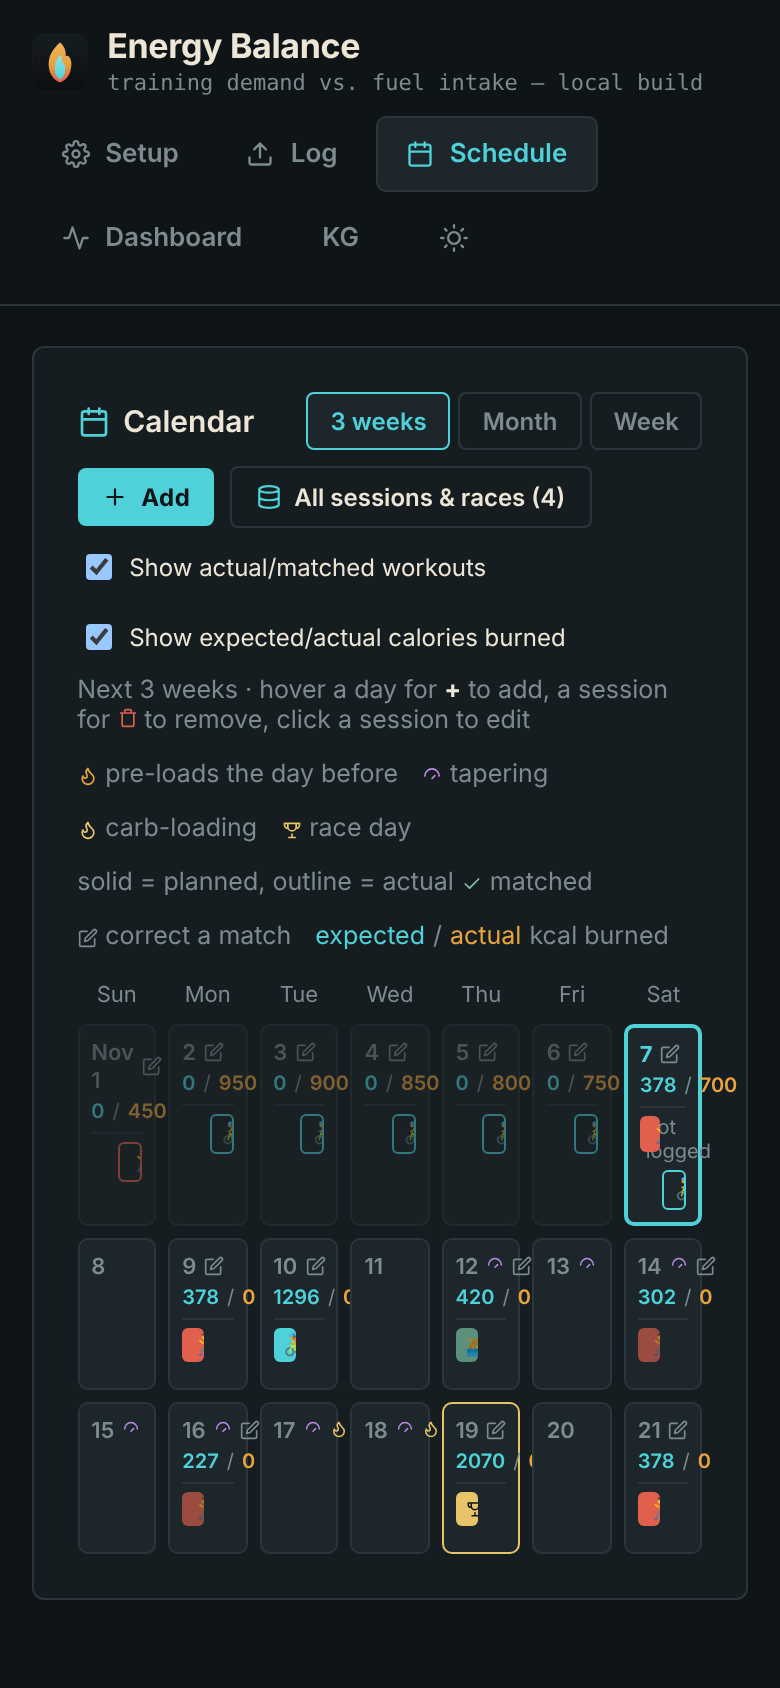
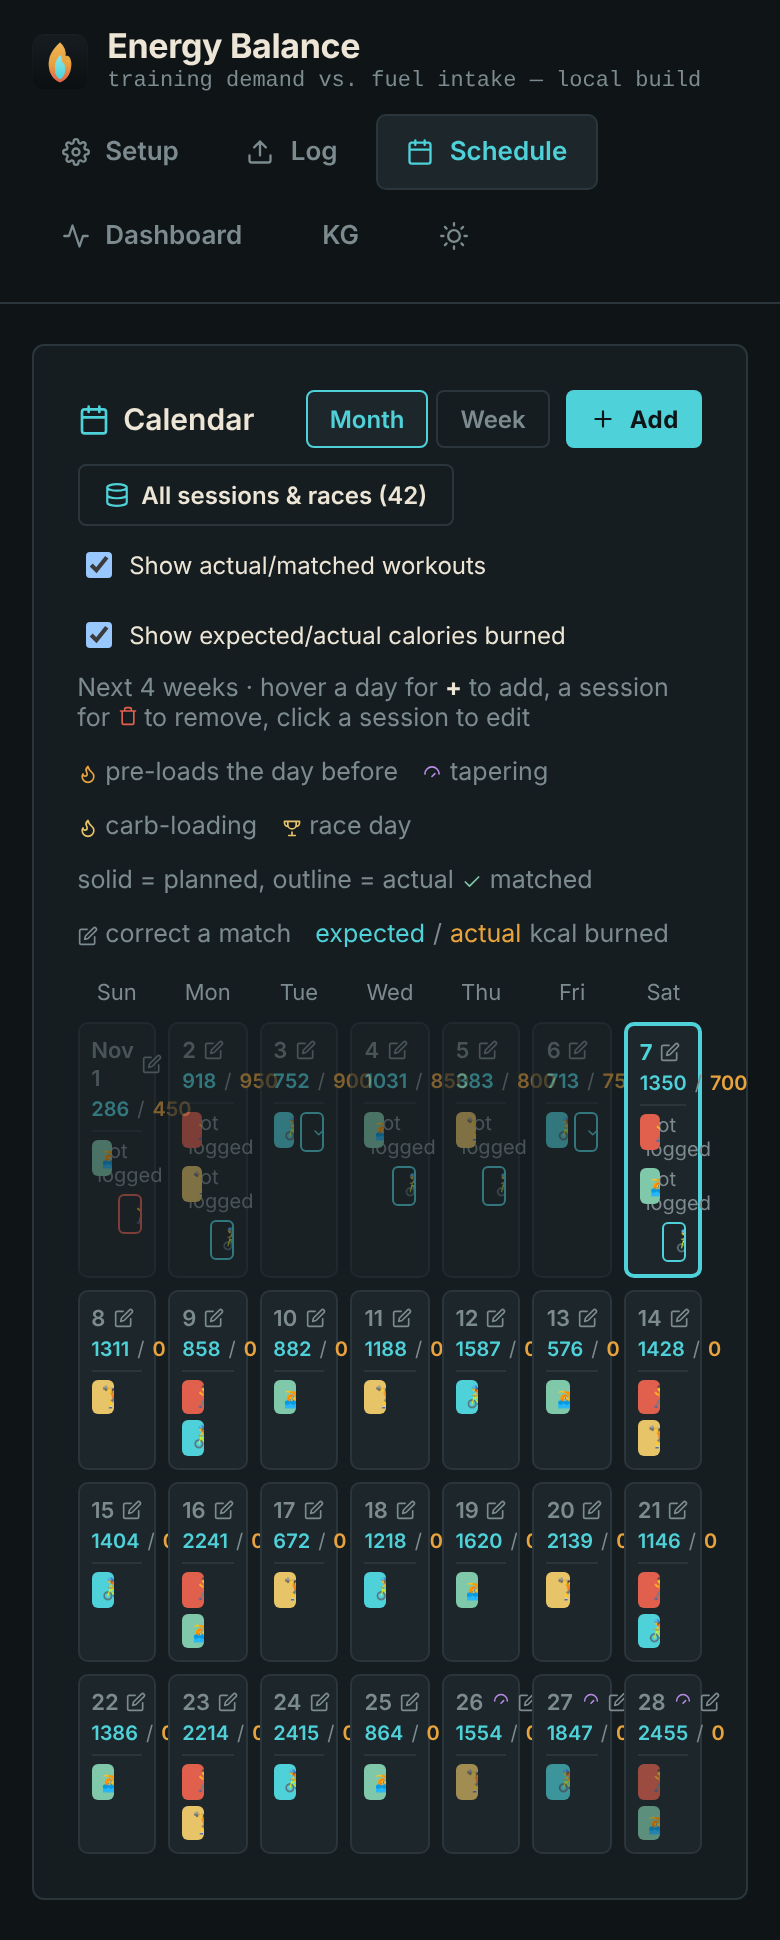
Schedule: drop the 3-week view; week view matches the month layout
- Calendar views are now Month (default, 4 weeks) and Week. A saved
  "3week" preference falls back to Month.
- Week view: sessions stack vertically with the matched actual beside each,
  like the month grid; all seven day rows are as tall as the week's
  busiest day; the list scrolls with the page instead of in its own box
  (switching to Week or pressing Today scrolls today's row into view).
- Screenshots refreshed.

Claude-Session: https://claude.ai/code/session_016ADyii2jwnd8wXYzD1F69B

diff --git a/src/js/app.js b/src/js/app.js
@@ -1588,11 +1588,9 @@
         @media (hover: none) { .cal-add, .chip-del { opacity: 1; } }
         @media (max-width: 700px) { .chip-del { display: none; } }
         .modal-body table.data thead th { position: sticky; top: 0; background: ${panel}; z-index: 1; }
-        .cal-week .cal-pair { flex: 0 1 420px; min-width: 0; }
-        .cal-week .cal-chips > .cal-chip-wrap { flex: 0 1 220px; }
         .cal-week .cal-chip-text { display: inline !important; }
         .cal-week .cal-chip-emoji { display: none !important; }
-        @media (max-width: 700px) { .cal-week .chip-del { display: flex; } .cal-week .cal-pair { flex-basis: 100%; } }
+        @media (max-width: 700px) { .cal-week .chip-del { display: flex; } }
         .subtab { padding: 7px 14px; border-radius: 4px; font-size: 12.5px; font-weight: 600; cursor: pointer; border: 1px solid ${line}; background: transparent; color: ${dim}; }
         .subtab.active { background: ${panel2}; color: ${cyan}; border-color: ${cyan}; }
         .fieldlabel { font-size: 11px; text-transform: uppercase; letter-spacing: 0.07em; color: ${dim}; margin-bottom: 6px; display:block; font-weight:600; }
@@ -2913,9 +2911,9 @@
     const [editingMatchDay, setEditingMatchDay] = useState(null);
     const [calView, setCalViewState] = useState(() => {
       try {
-        return localStorage.getItem("schedule-view") || "3week";
+        return localStorage.getItem("schedule-view") === "week" ? "week" : "month";
       } catch {
-        return "3week";
+        return "month";
       }
     });
     const setCalView = (v) => {
@@ -2927,6 +2925,7 @@
     };
     const [weekOffset, setWeekOffset] = useState(0);
     const weekListRef = useRef(null);
+    const [scrollTodayTick, setScrollTodayTick] = useState(0);
     const showActual = profile.scheduleShowActual !== false;
     const showCalories = profile.scheduleShowCalories !== false;
     const activityLibrary = useMemo(
@@ -2960,7 +2959,7 @@
       onUpdate(id, { ...rest, skipDates: Array.from(/* @__PURE__ */ new Set([...entry.skipDates || [], dateKey])).sort() });
     }
     const calendarStart = daysAgo((/* @__PURE__ */ new Date()).getDay() - (calView === "week" ? weekOffset * 7 : 0));
-    const calendarLength = calView === "week" ? 7 : calView === "month" ? 28 : 21;
+    const calendarLength = calView === "week" ? 7 : 28;
     const calendarDays = [];
     for (let i = 0; i < calendarLength; i++) {
       const d = new Date(calendarStart);
@@ -2992,17 +2991,13 @@
     const todayKey = toLocalISODate(/* @__PURE__ */ new Date());
     const isWeekView = calView === "week";
     const weekRelLabel = weekOffset === 0 ? "This week" : weekOffset === 1 ? "Next week" : weekOffset === -1 ? "Last week" : weekOffset > 0 ? `In ${weekOffset} weeks` : `${-weekOffset} weeks ago`;
-    const rangeLabel = isWeekView ? weekRelLabel : calView === "month" ? "Next 4 weeks" : "Next 3 weeks";
+    const rangeLabel = isWeekView ? weekRelLabel : "Next 4 weeks";
     useEffect(() => {
-      if (!isWeekView || weekOffset !== 0) return;
-      const list = weekListRef.current;
-      const el = list && list.querySelector('[data-today="true"]');
-      if (!el) return;
-      const top = el.offsetTop - list.offsetTop;
-      const overflow = top + el.offsetHeight - list.clientHeight;
-      if (overflow > 0) list.scrollTop = Math.min(top - 4, overflow + 4);
-    }, [isWeekView, weekOffset]);
-    return /* @__PURE__ */ React.createElement("div", { style: { display: "grid", gap: 20, gridTemplateColumns: "repeat(auto-fit, minmax(min(420px, 100%), 1fr))", alignItems: "start", gridAutoFlow: "dense" } }, /* @__PURE__ */ React.createElement("div", { className: "card", style: { padding: 22, gridColumn: "1 / -1" } }, /* @__PURE__ */ React.createElement("div", { style: { display: "flex", alignItems: "center", gap: 8, marginBottom: 10, flexWrap: "wrap" } }, /* @__PURE__ */ React.createElement("div", { style: { fontFamily: grotesk, fontWeight: 600, fontSize: 15, display: "flex", alignItems: "center", gap: 7, marginRight: "auto" } }, /* @__PURE__ */ React.createElement(Icon, { path: ICONS.calendar, size: 16, color: cyan }), " Calendar"), /* @__PURE__ */ React.createElement("div", { role: "tablist", "aria-label": "Calendar view", style: { display: "flex", gap: 4 } }, [["3week", "3 weeks"], ["month", "Month"], ["week", "Week"]].map(([id, label]) => /* @__PURE__ */ React.createElement(
+      if (!scrollTodayTick || !isWeekView) return;
+      const el = weekListRef.current && weekListRef.current.querySelector('[data-today="true"]');
+      if (el) el.scrollIntoView({ block: "nearest", behavior: "smooth" });
+    }, [scrollTodayTick]);
+    return /* @__PURE__ */ React.createElement("div", { style: { display: "grid", gap: 20, gridTemplateColumns: "repeat(auto-fit, minmax(min(420px, 100%), 1fr))", alignItems: "start", gridAutoFlow: "dense" } }, /* @__PURE__ */ React.createElement("div", { className: "card", style: { padding: 22, gridColumn: "1 / -1" } }, /* @__PURE__ */ React.createElement("div", { style: { display: "flex", alignItems: "center", gap: 8, marginBottom: 10, flexWrap: "wrap" } }, /* @__PURE__ */ React.createElement("div", { style: { fontFamily: grotesk, fontWeight: 600, fontSize: 15, display: "flex", alignItems: "center", gap: 7, marginRight: "auto" } }, /* @__PURE__ */ React.createElement(Icon, { path: ICONS.calendar, size: 16, color: cyan }), " Calendar"), /* @__PURE__ */ React.createElement("div", { role: "tablist", "aria-label": "Calendar view", style: { display: "flex", gap: 4 } }, [["month", "Month"], ["week", "Week"]].map(([id, label]) => /* @__PURE__ */ React.createElement(
       "button",
       {
         key: id,
@@ -3011,7 +3006,10 @@
         className: `subtab ${calView === id ? "active" : ""}`,
         onClick: () => {
           setCalView(id);
-          if (id === "week") setWeekOffset(0);
+          if (id === "week") {
+            setWeekOffset(0);
+            setScrollTodayTick((n) => n + 1);
+          }
         },
         style: { padding: "6px 11px", fontSize: 12 }
       },
@@ -3061,12 +3059,15 @@
         style: { padding: "6px 10px", display: "flex" }
       },
       /* @__PURE__ */ React.createElement(Icon, { path: ICONS.chevronRight, size: 16, color: paper })
-    ), weekOffset !== 0 && /* @__PURE__ */ React.createElement("button", { className: "btn-ghost", onClick: () => setWeekOffset(0), style: { padding: "6px 10px", fontSize: 12 } }, "Today")), /* @__PURE__ */ React.createElement(
+    ), weekOffset !== 0 && /* @__PURE__ */ React.createElement("button", { className: "btn-ghost", onClick: () => {
+      setWeekOffset(0);
+      setScrollTodayTick((n) => n + 1);
+    }, style: { padding: "6px 10px", fontSize: 12 } }, "Today")), /* @__PURE__ */ React.createElement(
       "div",
       {
         ref: weekListRef,
         className: isWeekView ? "cal-week" : void 0,
-        style: isWeekView ? { display: "flex", flexDirection: "column", gap: 6, maxHeight: "min(70vh, 900px)", overflowY: "auto", paddingRight: 4 } : { display: "grid", gridTemplateColumns: "repeat(7, minmax(0, 1fr))", gap: 6 }
+        style: isWeekView ? { display: "grid", gridTemplateColumns: "minmax(0, 1fr)", gridAutoRows: "1fr", gap: 6 } : { display: "grid", gridTemplateColumns: "repeat(7, minmax(0, 1fr))", gap: 6 }
       },
       !isWeekView && WEEKDAY_LABELS.map((label) => /* @__PURE__ */ React.createElement("div", { key: label, style: { fontSize: 11, color: dim, textAlign: "center", paddingBottom: 2 } }, label)),
       calendarDays.map((day) => {
@@ -3250,7 +3251,7 @@
             /* @__PURE__ */ React.createElement("span", { style: { color: dim } }, "/"),
             /* @__PURE__ */ React.createElement("span", { style: { color: amber, fontWeight: 600 } }, Math.round(day.actualKcal))
           ),
-          /* @__PURE__ */ React.createElement("div", { className: "cal-chips", style: { display: "flex", flexDirection: isWeekView ? "row" : "column", flexWrap: isWeekView ? "wrap" : "nowrap", gap: isWeekView ? 6 : 3 } }, isWeekView && day.pairs.length === 0 && day.extras.length === 0 && /* @__PURE__ */ React.createElement("div", { style: { fontSize: 11.5, color: dim } }, day.taper ? "Rest \xB7 tapering" : "Rest day"), showActual ? /* @__PURE__ */ React.createElement(React.Fragment, null, day.pairs.map(({ planned, actual, manual }, i) => {
+          /* @__PURE__ */ React.createElement("div", { className: "cal-chips", style: { display: "flex", flexDirection: "column", gap: isWeekView ? 4 : 3, maxWidth: isWeekView ? 640 : void 0 } }, isWeekView && day.pairs.length === 0 && day.extras.length === 0 && /* @__PURE__ */ React.createElement("div", { style: { fontSize: 11.5, color: dim } }, day.taper ? "Rest \xB7 tapering" : "Rest day"), showActual ? /* @__PURE__ */ React.createElement(React.Fragment, null, day.pairs.map(({ planned, actual, manual }, i) => {
             const isGroup = Array.isArray(actual);
             return /* @__PURE__ */ React.createElement("div", { key: `pair${i}`, className: "cal-pair", style: { display: "grid", gridTemplateColumns: "1fr 1fr", gap: 3 } }, plannedChip(planned, i, isGroup), isGroup ? actualChipGroup(actual, i, manual) : actual ? actualChip(actual, true, i, manual) : day.key <= todayKey ? /* @__PURE__ */ React.createElement("div", { style: { fontSize: 10, color: dim, display: "flex", alignItems: "center" } }, "not logged") : null);
           }), day.extras.map((actual, i) => /* @__PURE__ */ React.createElement("div", { key: `extra${i}`, className: "cal-pair", style: { display: "grid", gridTemplateColumns: "1fr 1fr", gap: 3 } }, /* @__PURE__ */ React.createElement("div", null), actualChip(actual, false, i)))) : day.pairs.map(({ planned }, i) => plannedChip(planned, i)))

diff --git a/src/js/app-source.jsx b/src/js/app-source.jsx
@@ -2141,11 +2141,9 @@ function App() {
         @media (hover: none) { .cal-add, .chip-del { opacity: 1; } }
         @media (max-width: 700px) { .chip-del { display: none; } }
         .modal-body table.data thead th { position: sticky; top: 0; background: ${panel}; z-index: 1; }
-        .cal-week .cal-pair { flex: 0 1 420px; min-width: 0; }
-        .cal-week .cal-chips > .cal-chip-wrap { flex: 0 1 220px; }
         .cal-week .cal-chip-text { display: inline !important; }
         .cal-week .cal-chip-emoji { display: none !important; }
-        @media (max-width: 700px) { .cal-week .chip-del { display: flex; } .cal-week .cal-pair { flex-basis: 100%; } }
+        @media (max-width: 700px) { .cal-week .chip-del { display: flex; } }
         .subtab { padding: 7px 14px; border-radius: 4px; font-size: 12.5px; font-weight: 600; cursor: pointer; border: 1px solid ${line}; background: transparent; color: ${dim}; }
         .subtab.active { background: ${panel2}; color: ${cyan}; border-color: ${cyan}; }
         .fieldlabel { font-size: 11px; text-transform: uppercase; letter-spacing: 0.07em; color: ${dim}; margin-bottom: 6px; display:block; font-weight:600; }
@@ -3907,15 +3905,19 @@ function ScheduleTab({ schedule, onAdd, onUpdate, onDelete, stravaData, interval
   const [confirmDelete, setConfirmDelete] = useState(null); // null | { planned, dateKey }
   const [listView, setListView] = useState(null); // null | "races" | "single" | "recurring"
   const [editingMatchDay, setEditingMatchDay] = useState(null); // date key, or null
-  // Calendar view: "3week" (default grid), "month" (4-week grid) or "week"
+  // Calendar view: "month" (default; 4-week grid from this Sunday) or "week"
   // (one week as a vertical list, navigable by weekOffset from this week).
   // The view is a per-browser preference, like panel open state.
   const [calView, setCalViewState] = useState(() => {
-    try { return localStorage.getItem("schedule-view") || "3week"; } catch { return "3week"; }
+    // Anything else saved (e.g. the retired "3week" view) falls back to month.
+    try { return localStorage.getItem("schedule-view") === "week" ? "week" : "month"; } catch { return "month"; }
   });
   const setCalView = (v) => { setCalViewState(v); try { localStorage.setItem("schedule-view", v); } catch { /* ignore */ } };
   const [weekOffset, setWeekOffset] = useState(0);
   const weekListRef = useRef(null);
+  // Bumped when the user opens Week view or presses Today, to bring today's
+  // row into view (the list scrolls with the page, not in its own box).
+  const [scrollTodayTick, setScrollTodayTick] = useState(0);
   // Both default on (undefined !== false) so existing profiles pick up the
   // new toggles already enabled — nothing changes until someone opts out.
   const showActual = profile.scheduleShowActual !== false;
@@ -3962,7 +3964,7 @@ function ScheduleTab({ schedule, onAdd, onUpdate, onDelete, stravaData, interval
   // dashboard. Week view shows one Sunday-to-Saturday week, weekOffset weeks
   // from this one.
   const calendarStart = daysAgo(new Date().getDay() - (calView === "week" ? weekOffset * 7 : 0));
-  const calendarLength = calView === "week" ? 7 : calView === "month" ? 28 : 21;
+  const calendarLength = calView === "week" ? 7 : 28;
   const calendarDays = [];
   for (let i = 0; i < calendarLength; i++) {
     const d = new Date(calendarStart);
@@ -3995,19 +3997,13 @@ function ScheduleTab({ schedule, onAdd, onUpdate, onDelete, stravaData, interval
   const isWeekView = calView === "week";
   const weekRelLabel = weekOffset === 0 ? "This week" : weekOffset === 1 ? "Next week" : weekOffset === -1 ? "Last week"
     : weekOffset > 0 ? `In ${weekOffset} weeks` : `${-weekOffset} weeks ago`;
-  const rangeLabel = isWeekView ? weekRelLabel : calView === "month" ? "Next 4 weeks" : "Next 3 weeks";
+  const rangeLabel = isWeekView ? weekRelLabel : "Next 4 weeks";
 
-  // Week view: when the shown week contains today, scroll today's row into
-  // view inside the list.
   useEffect(() => {
-    if (!isWeekView || weekOffset !== 0) return;
-    const list = weekListRef.current;
-    const el = list && list.querySelector('[data-today="true"]');
-    if (!el) return;
-    const top = el.offsetTop - list.offsetTop;
-    const overflow = top + el.offsetHeight - list.clientHeight;
-    if (overflow > 0) list.scrollTop = Math.min(top - 4, overflow + 4);
-  }, [isWeekView, weekOffset]);
+    if (!scrollTodayTick || !isWeekView) return;
+    const el = weekListRef.current && weekListRef.current.querySelector('[data-today="true"]');
+    if (el) el.scrollIntoView({ block: "nearest", behavior: "smooth" });
+  }, [scrollTodayTick]);
 
   return (
     <div style={{ display: "grid", gap: 20, gridTemplateColumns: "repeat(auto-fit, minmax(min(420px, 100%), 1fr))", alignItems: "start", gridAutoFlow: "dense" }}>
@@ -4017,9 +4013,9 @@ function ScheduleTab({ schedule, onAdd, onUpdate, onDelete, stravaData, interval
             <Icon path={ICONS.calendar} size={16} color={cyan} /> Calendar
           </div>
           <div role="tablist" aria-label="Calendar view" style={{ display: "flex", gap: 4 }}>
-            {[["3week", "3 weeks"], ["month", "Month"], ["week", "Week"]].map(([id, label]) => (
+            {[["month", "Month"], ["week", "Week"]].map(([id, label]) => (
               <button key={id} role="tab" aria-selected={calView === id} className={`subtab ${calView === id ? "active" : ""}`}
-                onClick={() => { setCalView(id); if (id === "week") setWeekOffset(0); }} style={{ padding: "6px 11px", fontSize: 12 }}>{label}</button>
+                onClick={() => { setCalView(id); if (id === "week") { setWeekOffset(0); setScrollTodayTick((n) => n + 1); } }} style={{ padding: "6px 11px", fontSize: 12 }}>{label}</button>
             ))}
           </div>
           <button className="btn-primary" onClick={() => openAdd(null)} style={{ padding: "7px 12px", fontSize: 12 }}>
@@ -4073,13 +4069,13 @@ function ScheduleTab({ schedule, onAdd, onUpdate, onDelete, stravaData, interval
             <button className="btn-ghost" onClick={() => setWeekOffset((o) => o + 1)} aria-label="Next week" title="Next week"
               style={{ padding: "6px 10px", display: "flex" }}><Icon path={ICONS.chevronRight} size={16} color={paper} /></button>
             {weekOffset !== 0 && (
-              <button className="btn-ghost" onClick={() => setWeekOffset(0)} style={{ padding: "6px 10px", fontSize: 12 }}>Today</button>
+              <button className="btn-ghost" onClick={() => { setWeekOffset(0); setScrollTodayTick((n) => n + 1); }} style={{ padding: "6px 10px", fontSize: 12 }}>Today</button>
             )}
           </div>
         )}
         <div ref={weekListRef} className={isWeekView ? "cal-week" : undefined}
           style={isWeekView
-            ? { display: "flex", flexDirection: "column", gap: 6, maxHeight: "min(70vh, 900px)", overflowY: "auto", paddingRight: 4 }
+            ? { display: "grid", gridTemplateColumns: "minmax(0, 1fr)", gridAutoRows: "1fr", gap: 6 }
             : { display: "grid", gridTemplateColumns: "repeat(7, minmax(0, 1fr))", gap: 6 }}>
           {!isWeekView && WEEKDAY_LABELS.map((label) => (
             <div key={label} style={{ fontSize: 11, color: dim, textAlign: "center", paddingBottom: 2 }}>{label}</div>
@@ -4233,7 +4229,7 @@ function ScheduleTab({ schedule, onAdd, onUpdate, onDelete, stravaData, interval
                     <span style={{ color: amber, fontWeight: 600 }}>{Math.round(day.actualKcal)}</span>
                   </div>
                 )}
-                <div className="cal-chips" style={{ display: "flex", flexDirection: isWeekView ? "row" : "column", flexWrap: isWeekView ? "wrap" : "nowrap", gap: isWeekView ? 6 : 3 }}>
+                <div className="cal-chips" style={{ display: "flex", flexDirection: "column", gap: isWeekView ? 4 : 3, maxWidth: isWeekView ? 640 : undefined }}>
                 {isWeekView && day.pairs.length === 0 && day.extras.length === 0 && (
                   <div style={{ fontSize: 11.5, color: dim }}>{day.taper ? "Rest · tapering" : "Rest day"}</div>
                 )}

diff --git a/CONTEXT.md b/CONTEXT.md
@@ -138,10 +138,11 @@ per-browser preference in `localStorage` (`panels:setup`, `panels:log`), not the
   logs live behind the "Stored data…" button (a modal with one tab each). The training tab is
   read-only: every cached Strava + intervals.icu activity, with intervals.icu rows on Strava days dimmed
   (the model ignores them there).
-- Schedule: the calendar has three views (per-browser `localStorage` key `schedule-view`): **3 weeks**
-  (default grid from this Sunday), **Month** (same grid, 4 weeks) and **Week** (one Sunday–Saturday week
-  as a vertically scrollable list of day rows, with ‹ "Week of …" › navigation and a Today button;
-  `weekOffset` is relative to this week). All three share the same day/chip rendering.
+- Schedule: the calendar has two views (per-browser `localStorage` key `schedule-view`): **Month** (default;
+  4-week grid from this Sunday) and **Week** (one Sunday–Saturday week as a column of day rows, all as tall as
+  the week's busiest day; sessions stack vertically with the matched actual beside each, like the grid; the list
+  scrolls with the page; ‹ "Week of …" › navigation and a Today button; `weekOffset` is relative to this week).
+  Both share the same day/chip rendering.
   The calendar is the editor. Hovering a day shows **+** (add a session or race there, in a
   pop-up `ScheduleEntryEditor`); hovering a planned chip shows a trash icon (confirm dialog); clicking a chip
   opens it for editing (the pop-up also has Delete, which is how phones delete — the chip trash is hidden
